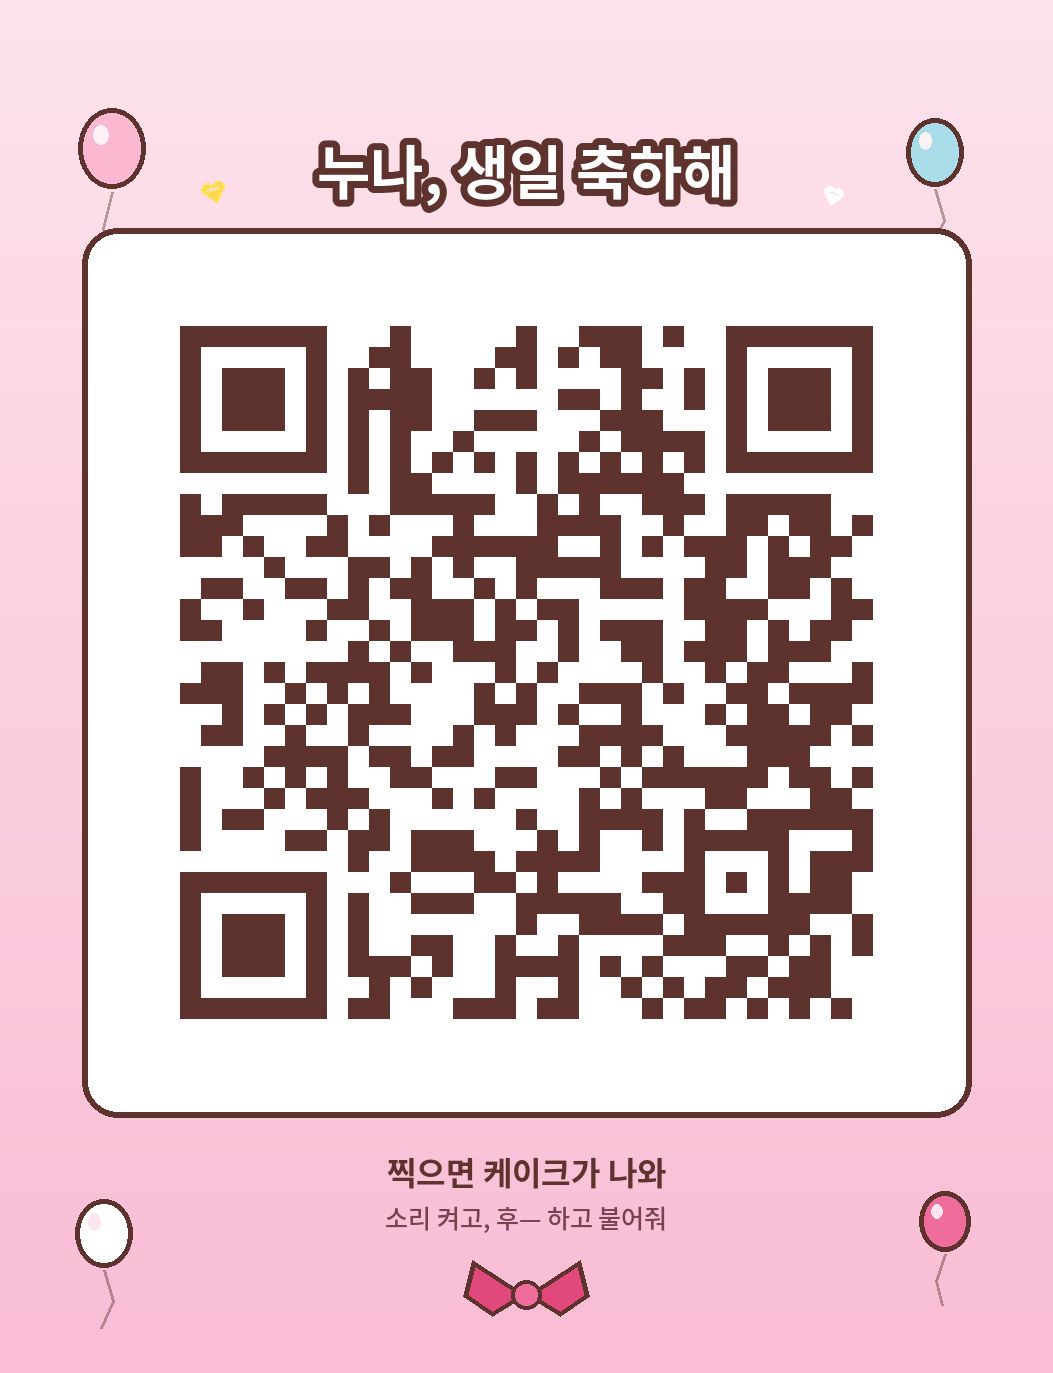
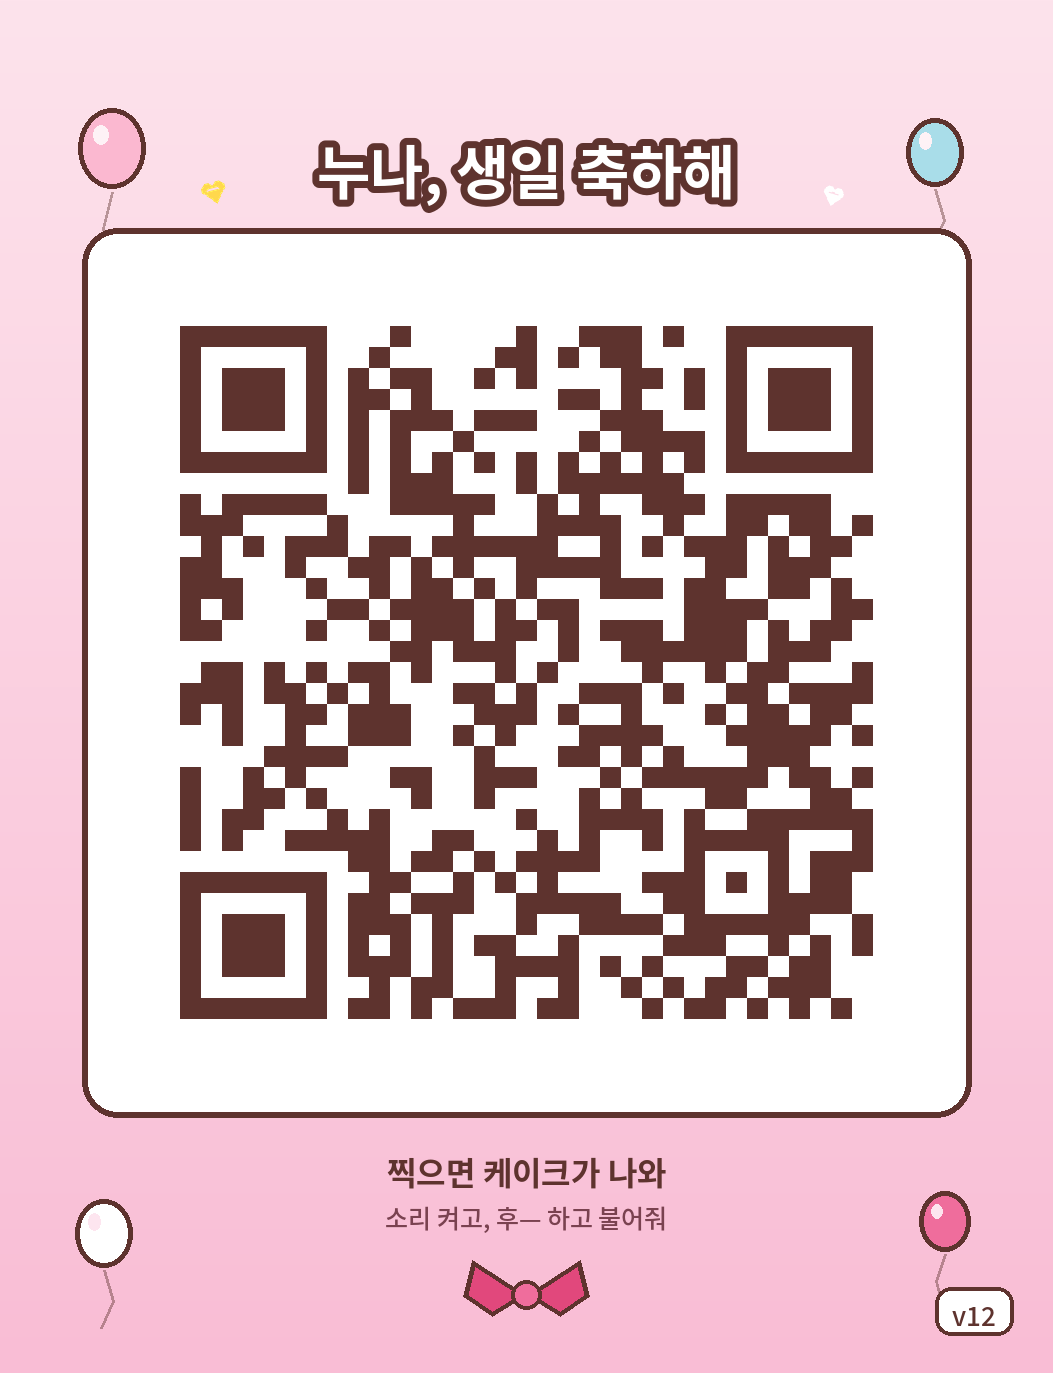
v12

diff --git a/index.html b/index.html
@@ -1,4 +1,7 @@
 <title>촛불 편지</title>
+<meta name="viewport" content="width=device-width,initial-scale=1,viewport-fit=cover">
+<meta http-equiv="Cache-Control" content="no-cache, no-store, must-revalidate">
+<meta http-equiv="Pragma" content="no-cache">
 <link rel="preconnect" href="https://fonts.googleapis.com">
 <link rel="preconnect" href="https://fonts.gstatic.com" crossorigin>
 <link rel="stylesheet" href="https://fonts.googleapis.com/css2?family=Jua&family=Gaegu:wght@400;700&display=swap">
@@ -169,7 +172,7 @@ body{
     <p class="loadtxt" id="loadtxt">준비하는 중</p>
     <div class="bar"><span id="barFill"></span><b id="barBow"><svg viewBox="0 0 24 24"><path d="M12 21.3 10.5 20C5.4 15.4 2 12.3 2 8.5 2 5.4 4.4 3 7.5 3c1.7 0 3.4.8 4.5 2.1C13.1 3.8 14.8 3 16.5 3 19.6 3 22 5.4 22 8.5c0 3.8-3.4 6.9-8.5 11.5L12 21.3z"/></svg></b></div>
     <p class="pct" id="pct">0%</p>
-    <p class="ver" id="ver">v11</p>
+    <p class="ver" id="ver">v12</p>
   </section>
 
   <section class="scene opening" id="s1" role="button" tabindex="0" aria-label="시작하기">
@@ -223,7 +226,7 @@ const CONFIG = {
   ],
   서명: "— 하나뿐인 동생이",
   노래재생: true,
-  버전: "v11"
+  버전: "v12"
 };
 /* ══════════════════════════════════════════ */
 
